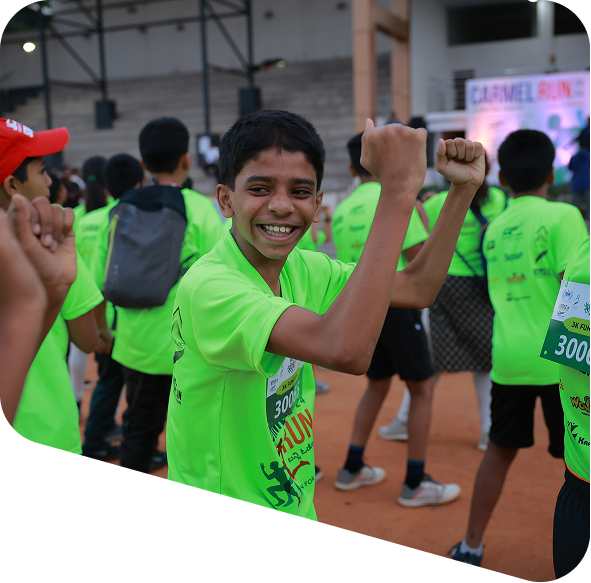
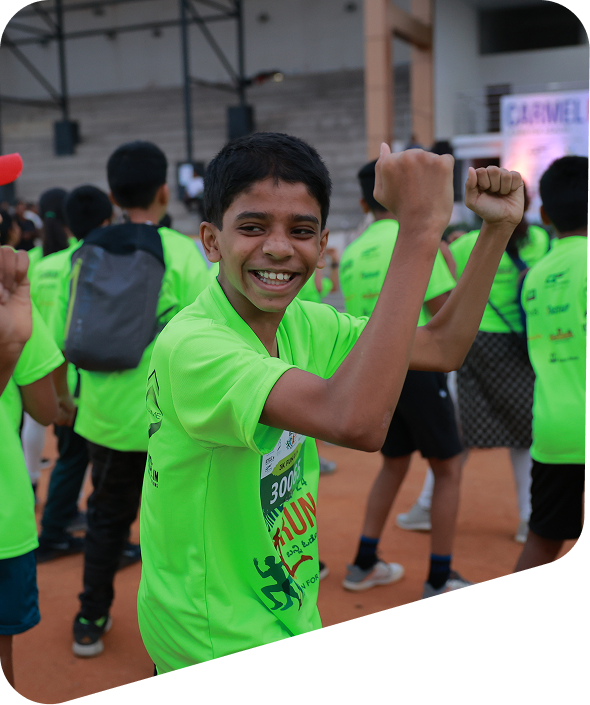
updated

diff --git a/aboutpage.html b/aboutpage.html
@@ -171,17 +171,17 @@
     <section id="about" class="py-8 md:py-16"  data-aos="fade-up" data-aos-delay="300" data-aos-offset="200">
       <div class="wrapper">
         <div
-          class="flex flex-col md:flex-row items-center md:items-start gap-8 pb-[40px]"
+          class="flex flex-col md:flex-row items-center md:items-start gap-8 "
         >
           <!-- Left Section -->
           <div class="w-full text-center">
-            <h1 class="text-2xl md:text-4xl font-semibold text-black leading-snug">
+            <h1 class="text-2xl md:text-4xl font-semibold text-black leading-snug mb-10">
               🏃♂ Carmel Run 2025 – Stride for a Cause! 🏅
             </h1>
 
           <!-- Right Section -->
           <div class="">
-            <p class="text-base md:text-[18px] leading-[35px] text-[#6D6D6D]">
+            <p class="text-justify md:text-center md:text-[18px] leading-[35px] text-[#6D6D6D]">
               The Carmel Run 2025 is more than just a race—it's a movement!
               Organized by Carmel High School, Basaveshwaranagar, this event is
               designed to ignite the spirit of fitness, camaraderie, and social
@@ -375,25 +375,39 @@
               </h2>
               <ul class="mt-4">
                 <li class="flex items-center gap-4 mt-[28px]">
-                  <span class="w-12 h-8 flex items-center justify-center rounded-full bg-orange-200">
-                    ✨
-                  </span>
+                  <svg class="flex items-center justify-center" width="60" height="60" viewBox="0 0 60 60" fill="none" xmlns="http://www.w3.org/2000/svg">
+                    <rect width="60" height="60" rx="30" fill="white"/>
+                    <g clip-path="url(#clip0_196_223)">
+                    <path d="M44.0664 29.8809L32.1777 29.0898L36.6309 23.3652L30.9062 27.8184L30.1152 15.9297H29.8809L29.0898 27.8184L23.3652 23.3652L27.8184 29.0898L15.9297 29.8809V30.1152L27.8184 30.9062L23.3652 36.6309L29.0898 32.1777L29.8809 44.0664H30.1152L30.9062 32.1777L36.6309 36.6309L32.1777 30.9062L44.0664 30.1152V29.8809Z" fill="#FF8E00"/>
+                    </g>
+                    <defs>
+                    <clipPath id="clip0_196_223">
+                    <rect width="30" height="30" fill="white" transform="translate(15 15)"/>
+                    </clipPath>
+                    </defs>
+                    </svg>
+                    
                   <p class="text-[#6D6D6D] text-base md:text-[18px]">
                     Thousands of participants across different age groups
                   </p>
                 </li>
                 <li class="flex items-center gap-4 mt-[28px]">
-                  <span class="w-12 h-8 flex items-center justify-center rounded-full bg-blue-200">
-                    ❄
-                  </span>
+                  <svg class="flex items-center justify-center" width="60" height="60" viewBox="0 0 60 60" fill="none" xmlns="http://www.w3.org/2000/svg">
+                    <rect width="60" height="60" rx="30" fill="white"/>
+                    <path fill-rule="evenodd" clip-rule="evenodd" d="M21.0067 32.1559C21.0067 32.1559 19.6575 32.3411 18.7448 31.2829C18.7448 31.2829 18.229 30.7141 18.348 29.7088C18.4141 29.1532 18.4538 29.0077 18.3348 28.6109C18.2554 28.3464 18.1231 27.9231 18.4671 27.5792C18.811 27.2485 19.0491 27.1559 19.1417 26.8781C19.2343 26.6003 19.102 26.3887 19.0226 25.9125C18.9432 25.4363 19.3004 25.1718 19.5253 24.9998C19.8559 24.7353 19.9089 24.603 20.1866 24.1268C20.6893 23.2405 21.4432 23.0818 21.4432 23.0818C22.8057 22.7644 23.7845 23.7167 23.7845 23.7167L27.9247 27.5395L25.5702 22.4204C25.5702 22.4204 24.975 21.1903 25.6893 19.9998C25.6893 19.9998 26.0729 19.3384 27.0649 19.1268C27.6073 19.021 27.7528 19.0077 28.1099 18.7696C28.3348 18.6241 28.6919 18.3464 29.1284 18.5712C29.5517 18.7961 29.7104 18.9945 30.0014 18.9813C30.3057 18.9813 30.4512 18.7961 30.8745 18.5712C31.2977 18.3464 31.6681 18.6109 31.893 18.7696C32.2369 19.0077 32.3956 19.0077 32.938 19.1268C33.93 19.3252 34.3136 19.9998 34.3136 19.9998C35.0279 21.1903 34.4327 22.4204 34.4327 22.4204L32.0914 27.5527L36.2316 23.73C36.2316 23.73 37.2104 22.7776 38.5729 23.095C38.5729 23.095 39.3268 23.2538 39.8295 24.14C40.1073 24.6294 40.1602 24.7617 40.4909 25.013C40.7025 25.185 41.0729 25.4363 40.9935 25.9257C40.9141 26.4019 40.7686 26.6003 40.8745 26.8913C40.9671 27.1823 41.1919 27.2617 41.5491 27.5924C41.893 27.9231 41.7607 28.3596 41.6813 28.6241C41.5755 29.0342 41.602 29.1665 41.6681 29.722C41.7872 30.7273 41.2713 31.2961 41.2713 31.2961C40.3586 32.3543 39.0094 32.1691 39.0094 32.1691L33.4009 31.5342L38.3348 34.2855C38.3348 34.2855 39.5385 34.9204 39.6708 36.3093C39.6708 36.3093 39.7501 37.0765 39.0755 37.8305C38.7052 38.2405 38.5861 38.3331 38.4406 38.73C38.348 38.9945 38.2157 39.4178 37.7395 39.4839C37.2634 39.5501 37.0253 39.4839 36.7872 39.6691C36.5491 39.8411 36.5358 40.0792 36.3242 40.5289C36.1126 40.9654 35.6628 40.9654 35.385 40.9786C34.9618 41.0051 34.8427 41.0712 34.3401 41.3093C33.4141 41.7326 32.7131 41.4284 32.7131 41.4284C31.43 40.886 31.1787 39.5501 31.1787 39.5501L30.0147 34.021L28.8507 39.5501C28.8507 39.5501 28.5993 40.886 27.3163 41.4284C27.3163 41.4284 26.6152 41.7326 25.6893 41.3093C25.1866 41.0712 25.0544 41.0051 24.6443 40.9786C24.3665 40.9654 23.9168 40.9654 23.7052 40.5289C23.4935 40.0924 23.4935 39.8543 23.2422 39.6691C23.0041 39.4839 22.766 39.5501 22.2898 39.4839C21.8136 39.4178 21.6813 38.9813 21.5887 38.73C21.4432 38.3331 21.3374 38.2405 20.9538 37.8305C20.266 37.0765 20.3586 36.3093 20.3586 36.3093C20.4909 34.9204 21.6946 34.2855 21.6946 34.2855L26.6284 31.5342L21.0067 32.1559Z" fill="#00C2CB"/>
+                    </svg>
+                    
                   <p class="text-[#6D6D6D] text-base md:text-[18px]">
                     Raised funds for social causes & community well-being
                   </p>
                 </li>
                 <li class="flex items-center gap-4 mt-[28px]">
-                  <span class="w-12 h-8 flex items-center justify-center rounded-full bg-green-200">
-                    🍃
-                  </span>
+                  <svg class="flex items-center justify-center" width="60" height="60" viewBox="0 0 60 60" fill="none" xmlns="http://www.w3.org/2000/svg">
+                    <rect width="60" height="60" rx="30" fill="white"/>
+                    <path d="M26.6915 16.4922L25.2545 29.0442L16.2305 29.0772L24.5195 31.7592L18.2645 36.5172L24.7115 34.9542L20.7665 43.5042L31.5485 36.3582L35.6465 41.1192L34.9595 35.1102L40.7195 37.0392L36.2435 30.8922L43.7705 28.5042L34.2365 28.5072L35.0285 21.3162L30.5015 26.4192L26.6915 16.4922Z" fill="#7DCE13"/>
+                    </svg>
+                    
+                    
                   <p class="text-[#6D6D6D] text-base md:text-[18px]">
                     Inspired many to adopt a healthier lifestyle
                   </p>

diff --git a/index.html b/index.html
@@ -352,7 +352,7 @@
               </div>
             </div>
 
-            <div class="flex relative">
+            <!-- <div class="flex relative">
               <div class="relative w-full mt-6">
                 <svg
                   width="100%"
@@ -368,7 +368,7 @@
                   />
                 </svg>
 
-                <!-- Floating Labels -->
+                
                 <div
                   class="absolute top-[77%] left-[30%] md:left-[8%] bg-yellow-300 px-3 py-1 sm:px-4 sm:py-2 rounded-full shadow-md flex items-center space-x-2 text-xs sm:text-sm md:text-base"
                 >
@@ -405,31 +405,26 @@
                   />
                 </svg>
               </div>
-            </div>
+            </div> -->
           </div>
 
           <!-- Right Section -->
           <div
-            class="right bg-[#2480F9] rounded-3xl w-full lg:w-[48%] p-8 flex flex-col items-center"
+            class="right bg-[#2480F9] rounded-3xl w-full lg:w-[48%] p-10 "
           >
-            <div class="w-[100%] md:w-[90%]">
+            <div class="w-[100%] md:w-[100%] relative">
               <img
                 src="./assets/images/abimage.png"
                 alt="Event Image"
-                class="rounded-lg w-full mt-[28px]"
+                class="rounded-lg w-full "
               />
+              <svg class="absolute right-0 bottom-0" width="90" height="90" viewBox="0 0 90 90" fill="none" xmlns="http://www.w3.org/2000/svg">
+                <rect width="90" height="90" rx="45" fill="#C5F37B"/>
+                <path d="M62.8652 42.5C62.1934 41.8281 61.3105 41.4609 60.3652 41.4609C56.7871 41.4609 53.2559 42.0391 49.8652 43.1875L48.2871 43.7188C48.1934 43.75 48.1387 43.6172 48.2246 43.5781L49.7246 42.8359C52.9355 41.25 55.8418 39.1641 58.373 36.6328C59.0371 35.9687 59.4043 35.1016 59.4121 34.1797C59.4355 32.2422 57.8574 30.625 55.9199 30.5938C54.959 30.5781 54.0527 30.9531 53.373 31.6328C50.8418 34.1641 48.7559 37.0703 47.1699 40.2812L46.4277 41.7812C46.3809 41.8672 46.2559 41.8125 46.2871 41.7188L46.8184 40.1406C47.9668 36.75 48.5449 33.2188 48.5449 29.6406C48.5449 28.6953 48.1777 27.8047 47.5059 27.1406C46.834 26.4687 45.9512 26.1016 45.0059 26.1016C44.0605 26.1016 43.1699 26.4687 42.5059 27.1406C41.834 27.8125 41.4668 28.6953 41.4668 29.6406C41.4668 33.2188 42.0449 36.75 43.1934 40.1406L43.7246 41.7188C43.7559 41.8125 43.623 41.8672 43.584 41.7812L42.8418 40.2812C41.2559 37.0703 39.1699 34.1641 36.6387 31.6328C35.9746 30.9688 35.1074 30.6016 34.1855 30.5938C32.2402 30.5703 30.623 32.1484 30.5996 34.0859C30.584 35.0469 30.959 35.9531 31.6387 36.6328C34.1699 39.1641 37.0762 41.25 40.2871 42.8359L41.7871 43.5781C41.873 43.625 41.8184 43.75 41.7246 43.7188L40.1465 43.1875C36.7559 42.0391 33.2246 41.4609 29.6465 41.4609C28.7012 41.4609 27.8105 41.8281 27.1465 42.5C25.7637 43.8828 25.7637 46.125 27.1465 47.5078C27.8184 48.1797 28.7012 48.5469 29.6465 48.5469C33.2246 48.5469 36.7559 47.9687 40.1465 46.8203L41.7246 46.2891C41.8184 46.2578 41.873 46.3906 41.7871 46.4297L40.2871 47.1719C37.0762 48.7578 34.1699 50.8438 31.6387 53.375C30.9746 54.0391 30.6074 54.9062 30.5996 55.8281C30.5762 57.7656 32.1543 59.3828 34.0918 59.4141C35.0527 59.4297 35.959 59.0547 36.6387 58.375C39.1699 55.8438 41.2559 52.9375 42.8418 49.7266L43.584 48.2266C43.6309 48.1406 43.7559 48.1953 43.7246 48.2891L43.1934 49.8672C42.0449 53.2578 41.4668 56.7891 41.4668 60.3672C41.4668 61.3125 41.834 62.2031 42.5059 62.8672C43.1777 63.5391 44.0605 63.9062 45.0059 63.9062C45.9512 63.9062 46.8418 63.5391 47.5059 62.8672C48.1777 62.1953 48.5449 61.3125 48.5449 60.3672C48.5449 56.7891 47.9668 53.2578 46.8184 49.8672L46.2871 48.2891C46.2559 48.1953 46.3887 48.1406 46.4277 48.2266L47.1699 49.7266C48.7559 52.9375 50.8418 55.8438 53.373 58.375C54.0371 59.0391 54.9043 59.4062 55.8262 59.4141C57.7637 59.4375 59.3809 57.8594 59.4121 55.9219C59.4277 54.9609 59.0527 54.0547 58.373 53.375C55.8418 50.8438 52.9355 48.7578 49.7246 47.1719L48.2246 46.4297C48.1387 46.3828 48.1934 46.2578 48.2871 46.2891L49.8652 46.8203C53.2559 47.9687 56.7871 48.5469 60.3652 48.5469C61.3105 48.5469 62.2012 48.1797 62.8652 47.5078C64.248 46.125 64.248 43.875 62.8652 42.5Z" fill="#66C478"/>
+                </svg>
+                
             </div>
-            <div class="content flex items-center justify-center gap-4 my-4">
-              <div class="icon w-[40px] md:w-[50px]">
-                <img src="./assets/images/Testimonial.png" alt="Testimonial" />
-              </div>
-              <div class="para text-center">
-                <p class="text-white text-sm md:text-lg">
-                  "Every step you take is a step towards a healthier and happier
-                  tomorrow!"
-                </p>
-              </div>
-            </div>
+            
           </div>
         </div>
       </div>
